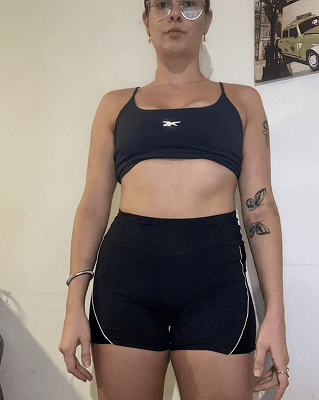
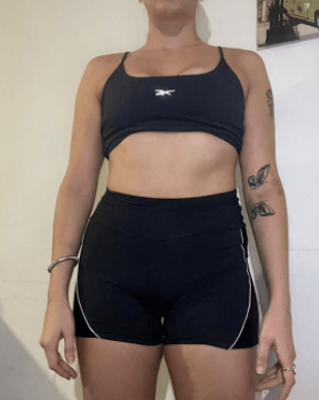
Add files via upload

diff --git a/app/components/ServicesSection.tsx b/app/components/ServicesSection.tsx
@@ -21,7 +21,7 @@ export const ServicesSection = ({ onCardClick }: ServicesSectionProps) => {
             <div className="w-4 md:w-6 h-px bg-red-700" />
           </div>
           
-          <h2 className="text-2xl md:text-4xl lg:text-5xl font-light tracking-tight text-white">Descubra a modalidade ideal para seu perfil</h2>
+          <h2 className="text-2xl md:text-4xl lg:text-5xl font-light tracking-tight text-white text-center">DESCUBRA A MODALIDADE IDEAL PARA SEU PERFIL</h2>
           <div className="w-12 h-px bg-red-700/30 mx-auto mt-4 md:mt-6" />
         </div>
         
@@ -42,17 +42,17 @@ export const ServicesSection = ({ onCardClick }: ServicesSectionProps) => {
                 <h3 className="text-xl md:text-2xl font-light text-white mb-6 md:mb-8 tracking-wide">TREINAMENTO PRESENCIAL</h3>
                 
                 <div className="mb-6 md:mb-8">
-                  <p className="text-red-600 text-[10px] md:text-xs tracking-wider mb-3 md:mb-4">IDEAL PARA QUEM:</p>
-                  <ul className="space-y-2 md:space-y-3">
-                    <li className="flex items-start gap-2 md:gap-3 text-gray-400 text-xs md:text-sm">
+                  <p className="text-red-600 text-lg md:text-xs tracking-wider mb-3 md:mb-4">IDEAL PARA QUEM:</p>
+                  <ul className="space-y-5 md:space-y-3">
+                    <li className="flex items-start gap-2 md:gap-3 text-gray-400 text-lg md:text-sm">
                       <span className="text-red-700 flex-shrink-0">—</span>
                       <span>Busca evolução acelerada e correção profissional</span>
                     </li>
-                    <li className="flex items-start gap-2 md:gap-3 text-gray-400 text-xs md:text-sm">
+                    <li className="flex items-start gap-2 md:gap-3 text-gray-400 text-lg md:text-sm">
                       <span className="text-red-700 flex-shrink-0">—</span>
                       <span>Possui lesão ou especificidade e quer segurança</span>
                     </li>
-                    <li className="flex items-start gap-2 md:gap-3 text-gray-400 text-xs md:text-sm">
+                    <li className="flex items-start gap-2 md:gap-3 text-gray-400 text-lg md:text-sm">
                       <span className="text-red-700 flex-shrink-0">—</span>
                       <span>Precisa de acompanhamento que cobre e motive</span>
                     </li>
@@ -61,7 +61,7 @@ export const ServicesSection = ({ onCardClick }: ServicesSectionProps) => {
                 
                 <button
                   onClick={() => onCardClick('presencial')}
-                  className="w-full group/btn relative bg-transparent border border-neutral-700 hover:border-red-700/50 px-4 md:px-6 py-2 md:py-3 text-white text-xs md:text-sm tracking-wide transition-all duration-300"
+                  className="w-full group/btn relative bg-red-700/70 border border-white hover:border-red-700/50 px-4 md:px-6 py-4 md:py-3 text-white text-md md:text-sm tracking-wide transition-all duration-300"
                 >
                   Quero Treinar Presencialmente
                 </button>
@@ -70,47 +70,47 @@ export const ServicesSection = ({ onCardClick }: ServicesSectionProps) => {
           </motion.div>
 
           {/* Online Card */}
-          <motion.div
-            initial={{ opacity: 0, x: 30 }}
-            animate={isInView ? { opacity: 1, x: 0 } : { opacity: 0, x: 30 }}
-            transition={{ duration: 0.6, delay: 0.2 }}
-            whileHover={{ y: -5 }}
-            className="group"
-          >
-            <div className="relative bg-neutral-800 p-6 md:p-8 lg:p-10">
-              <div className="absolute top-0 left-0 w-8 md:w-12 h-px bg-red-700/30 group-hover:w-12 md:group-hover:w-24 transition-all duration-500" />
-              
-              <div className="mt-6 md:mt-8">
-                <div className="w-6 md:w-8 h-px bg-red-700/30 mb-6 md:mb-8" />
-                <h3 className="text-xl md:text-2xl font-light text-white mb-6 md:mb-8 tracking-wide">CONSULTORIA ONLINE</h3>
-                
-                <div className="mb-6 md:mb-8">
-                  <p className="text-red-600 text-[10px] md:text-xs tracking-wider mb-3 md:mb-4">IDEAL PARA QUEM:</p>
-                  <ul className="space-y-2 md:space-y-3">
-                    <li className="flex items-start gap-2 md:gap-3 text-gray-400 text-xs md:text-sm">
-                      <span className="text-red-700 flex-shrink-0">—</span>
-                      <span>Quer direcionamento profissional para maximizar resultados</span>
-                    </li>
-                    <li className="flex items-start gap-2 md:gap-3 text-gray-400 text-xs md:text-sm">
-                      <span className="text-red-700 flex-shrink-0">—</span>
-                      <span>Já tem familiaridade mas sente que estagnou</span>
-                    </li>
-                    <li className="flex items-start gap-2 md:gap-3 text-gray-400 text-xs md:text-sm">
-                      <span className="text-red-700 flex-shrink-0">—</span>
-                      <span>Busca o caminho mais curto que a ciência proporciona</span>
-                    </li>
-                  </ul>
-                </div>
-                
-                <button
-                  onClick={() => onCardClick('online')}
-                  className="w-full group/btn relative bg-transparent border border-neutral-700 hover:border-red-700/50 px-4 md:px-6 py-2 md:py-3 text-white text-xs md:text-sm tracking-wide transition-all duration-300"
-                >
-                  Quero Consultoria Online
-                </button>
-              </div>
-            </div>
-          </motion.div>
+<motion.div
+  initial={{ opacity: 0, x: 30 }}
+  animate={isInView ? { opacity: 1, x: 0 } : { opacity: 0, x: 30 }}
+  transition={{ duration: 0.6, delay: 0.2 }}
+  whileHover={{ y: -5 }}
+  className="group"
+>
+  <div className="relative bg-neutral-800 p-6 md:p-8 lg:p-10">
+    <div className="absolute top-0 left-0 w-8 md:w-12 h-px bg-red-700/30 group-hover:w-12 md:group-hover:w-24 transition-all duration-500" />
+    
+    <div className="mt-6 md:mt-8">
+      <div className="w-6 md:w-8 h-px bg-red-700/30 mb-6 md:mb-8" />
+      <h3 className="text-xl md:text-2xl font-light text-white mb-6 md:mb-8 tracking-wide">CONSULTORIA ONLINE</h3>
+      
+      <div className="mb-6 md:mb-8">
+        <p className="text-red-600 text-lg md:text-xs tracking-wider mb-3 md:mb-4">IDEAL PARA QUEM:</p>
+        <ul className="space-y-5 md:space-y-3">
+          <li className="flex items-start gap-2 md:gap-3 text-gray-400 text-lg md:text-sm">
+            <span className="text-red-700 flex-shrink-0">—</span>
+            <span>Quer direcionamento profissional para maximizar resultados</span>
+          </li>
+          <li className="flex items-start gap-2 md:gap-3 text-gray-400 text-lg md:text-sm">
+            <span className="text-red-700 flex-shrink-0">—</span>
+            <span>Já tem familiaridade mas sente que estagnou</span>
+          </li>
+          <li className="flex items-start gap-2 md:gap-3 text-gray-400 text-lg md:text-sm">
+            <span className="text-red-700 flex-shrink-0">—</span>
+            <span>Busca o caminho mais curto que a ciência proporciona</span>
+          </li>
+        </ul>
+      </div>
+      
+      <button
+        onClick={() => onCardClick('online')}
+        className="w-full group/btn relative bg-red-700/70 border border-white hover:border-red-700/50 px-4 md:px-6 py-4 md:py-3 text-white text-md md:text-sm tracking-wide transition-all duration-300"
+      >
+        Quero Consultoria Online
+      </button>
+    </div>
+  </div>
+</motion.div>
         </div>
       </div>
     </section>

diff --git a/app/components/AboutSection.tsx b/app/components/AboutSection.tsx
@@ -8,7 +8,7 @@ export const AboutSection = () => {
 
   return (
     <section ref={ref} className="bg-neutral-900 pb-24">
-      <div className="max-w-7xl mx-auto px-6">
+      <div className="max-w-7xl mx-auto px-4">
         <motion.div
           initial="hidden"
           animate={controls}
@@ -25,19 +25,19 @@ export const AboutSection = () => {
             <div className="grid grid-cols-1 md:grid-cols-2 gap-8 md:gap-6">
               {/* Bacharel em Educação Física */}
               <div className="flex items-start gap-4">
-                <div className="w-8 h-px bg-red-700/50 mt-3 flex-shrink-0" />
+                <div className="w-4 h-px bg-red-700/50 mt-3 flex-shrink-0" />
                 <div>
-                  <h3 className="text-white text-base md:text-lg font-light tracking-wide">Bacharel em Educação Física</h3>
-                  <p className="text-gray-500 text-xs md:text-sm mt-1">Universidade Feevale</p>
+                  <h3 className="text-white text-xl md:text-lg font-light tracking-wide">Bacharel em Educação Física</h3>
+                  <p className="text-gray-500 text-lg md:text-sm mt-1">Universidade Feevale</p>
                 </div>
               </div>
               
               {/* 5+ anos de experiência em treinamento */}
               <div className="flex items-start gap-4">
-                <div className="w-8 h-px bg-red-700/50 mt-3 flex-shrink-0" />
+                <div className="w-4 h-px bg-red-700/50 mt-3 flex-shrink-0" />
                 <div>
-                  <h3 className="text-white text-base md:text-lg font-light tracking-wide">5+ anos de experiência em treinamento</h3>
-                  <p className="text-gray-500 text-xs md:text-sm mt-1">Conhecimento científico + prática diária alinhados para seu resultado</p>
+                  <h3 className="text-white text-xl md:text-lg font-light tracking-wide">5+ anos de experiência em treinamento</h3>
+                  <p className="text-gray-500 text-lg md:text-sm mt-1">Conhecimento científico + prática diária alinhados para seu resultado</p>
                 </div>
               </div>
             </div>
@@ -46,19 +46,19 @@ export const AboutSection = () => {
             <div className="grid grid-cols-1 md:grid-cols-2 gap-8 md:gap-6">
               {/* Especialista em musculação */}
               <div className="flex items-start gap-4">
-                <div className="w-8 h-px bg-red-700/50 mt-3 flex-shrink-0" />
+                <div className="w-4 h-px bg-red-700/50 mt-3 flex-shrink-0" />
                 <div>
-                  <h3 className="text-white text-base md:text-lg font-light tracking-wide">Especialista em musculação</h3>
-                  <p className="text-gray-500 text-xs md:text-sm mt-1">Emagrecimento e hipertrofia</p>
+                  <h3 className="text-white text-xl md:text-lg font-light tracking-wide">Especialista em musculação</h3>
+                  <p className="text-gray-500 text-lg md:text-sm mt-1">Emagrecimento e hipertrofia</p>
                 </div>
               </div>
               
               {/* Reabilitação de lesões */}
               <div className="flex items-start gap-4">
-                <div className="w-8 h-px bg-red-700/50 mt-3 flex-shrink-0" />
+                <div className="w-4 h-px bg-red-700/50 mt-3 flex-shrink-0" />
                 <div>
-                  <h3 className="text-white text-base md:text-lg font-light tracking-wide">Reabilitação de lesões</h3>
-                  <p className="text-gray-500 text-xs md:text-sm mt-1">Trato lesões de ombro, coluna, quadril, joelho e tornozelo</p>
+                  <h3 className="text-white text-xl md:text-lg font-light tracking-wide">Reabilitação de lesões</h3>
+                  <p className="text-gray-500 text-lg md:text-sm mt-1">Trato lesões de ombro, coluna, quadril, joelho e tornozelo</p>
                 </div>
               </div>
             </div>

diff --git a/app/components/FAQSection.tsx b/app/components/FAQSection.tsx
@@ -18,20 +18,20 @@ const faqs: FAQItem[] = [
     answer: "Não precisa. Existem inúmeros exercícios para cada grupo muscular. Vou sempre indicar o melhor para você."
   },
   {
-    question: "Tenho dor no joelho/ombro/lombar. Posso treinar?",
+    question: "Tenho dor no ombro/coluna/quadril/joelho/tornozelo. Posso treinar?",
     answer: "Sim. Meu método é baseado em reabilitação ativa. Fortalecemos sem agredir a lesão."
   },
   {
-    question: "Minha rotina é muito louca. Consigo encaixar?",
-    answer: "Sim. Ajustamos os treinos para a sua realidade. Eu me adapto a você."
+    question: "Minha rotina é muito louca, é possível encaixar os treinos nela?",
+    answer: "Sim. O treinamento é ajustado para a sua realidade."
   },
   {
     question: "Preciso treinar todos os dias?",
-    answer: "Não. A maioria treina 3 a 4 vezes por semana. Consistência, não volume exagerado."
+    answer: "Não. A maioria dos meus alunos treinam de 3 a 4 vezes por semana. Consistencia, nao volume exagerado."
   },
   {
     question: "Por que eu pagaria você se já tenho a academia?",
-    answer: "Academia dá equipamento, não direcionamento. Eu dou método, correção, ajuste fino e responsabilidade."
+    answer: "Academia te dá o peso e a máquina. Eu forneço método, correção, ajuste fino e direcionamento pra você não perder tempo no caminho errado."
   }
 ];
 
@@ -44,10 +44,10 @@ export const FAQSection = () => {
         <div className="text-center mb-12">
           <div className="flex items-center justify-center gap-3 mb-4">
             <div className="w-6 h-px bg-red-700" />
-            <span className="text-red-700 text-xs tracking-widest">DÚVIDAS FREQUENTES</span>
+            <span className="text-red-700 text-xs tracking-widest">ALGUMA DÚVIDA?</span>
             <div className="w-6 h-px bg-red-700" />
           </div>
-          <h2 className="text-3xl md:text-5xl font-light tracking-tight text-white">Perguntas Frequentes</h2>
+          <h2 className="text-2xl md:text-4xl lg:text-5xl font-light tracking-tight text-white text-center">PERGUNTAS FREQUENTES</h2>
           <div className="w-12 h-px bg-red-700/30 mx-auto mt-6" />
         </div>
         

diff --git a/app/components/Modal.tsx b/app/components/Modal.tsx
@@ -26,11 +26,11 @@ export const Modal = ({ isOpen, onSelect }: ModalProps) => {
           >
             <div className="relative">
               <div className="absolute -top-1 left-0 w-12 h-px bg-red-700" />
-              <h2 className="text-2xl font-light text-white mb-8 tracking-wide pt-2 ">
+              <h2 className="text-xl font-light text-white mb-8 tracking-wide pt-2 ">
                 Olá! Para uma experiência personalizada, responda a seguinte pergunta:
               </h2>
               <p className="text-white text-base mb-8 font-light">
-                Você é de Estância Velha/RS ou região?
+                Você é da região de Estância Velha/RS?
               </p>
             </div>
             

diff --git a/app/components/Footer.tsx b/app/components/Footer.tsx
@@ -16,7 +16,7 @@ export const Footer = ({ onPresencialClick, onOnlineClick }: FooterProps) => {
             <div className="w-6 h-px bg-red-700" />
           </div>
           
-          <h3 className="text-2xl md:text-3xl font-light text-white mb-4">Vagas presenciais limitadas</h3>
+          <h3 className="text-2xl md:text-4xl lg:text-5xl font-light tracking-tight text-white text-center mb-4">VAGAS PRESENCIAIS LIMITADAS</h3>
           <p className="text-gray-500 text-sm mb-6">Garanta seu horário. Avaliação gratuita para alunos presenciais.</p>
           
           <p className="text-white text-sm tracking-wide mb-8">ESCOLHA SEU CAMINHO E FALE COMIGO DIRETO NO WHATSAPP</p>

diff --git a/app/components/ScienceSection.tsx b/app/components/ScienceSection.tsx
@@ -40,7 +40,7 @@ export const ScienceSection = () => {
             <div className="w-4 md:w-6 h-px bg-red-700" />
           </div>
           
-          <h2 className="text-xl md:text-2xl lg:text-3xl font-light text-white">Na prática, isso significa:</h2>
+          <h2 className="text-2xl md:text-4xl lg:text-5xl font-light tracking-tight text-white text-center">NA PRÁTICA, ISSO SIGNIFICA:</h2>
           <div className="w-12 h-px bg-red-700/30 mx-auto mt-4 md:mt-6" />
         </div>
         

diff --git a/app/components/BeforeAfterCarousel.tsx b/app/components/BeforeAfterCarousel.tsx
@@ -178,8 +178,8 @@ export const BeforeAfterCarousel = () => {
             <div className="w-6 h-px bg-red-700" />
           </div>
 
-          <h2 className="text-white text-4xl md:text-5xl font-light tracking-tight">
-            Resultados que inspiram
+          <h2 className="text-2xl md:text-4xl lg:text-5xl font-light tracking-tight text-white text-center">
+            RESULTADOS QUE INSPIRAM
           </h2>
 
           <div className="w-14 h-px bg-red-700/40 mx-auto mt-6" />

diff --git a/app/page.tsx b/app/page.tsx
@@ -66,9 +66,10 @@ export default function Home() {
         <MethodologySection />
         <ScienceSection />
         <GallerySection />
+        <BeforeAfterCarousel />
         <ServicesSection onCardClick={handleCardClick} />
         <FAQSection />
-        <BeforeAfterCarousel />
+        
         <Footer 
           onPresencialClick={() => handleCardClick('presencial')}
           onOnlineClick={() => handleCardClick('online')}
